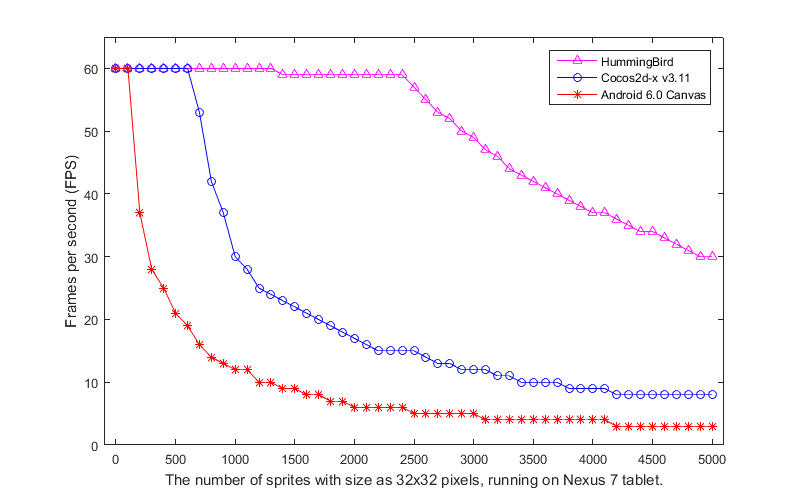
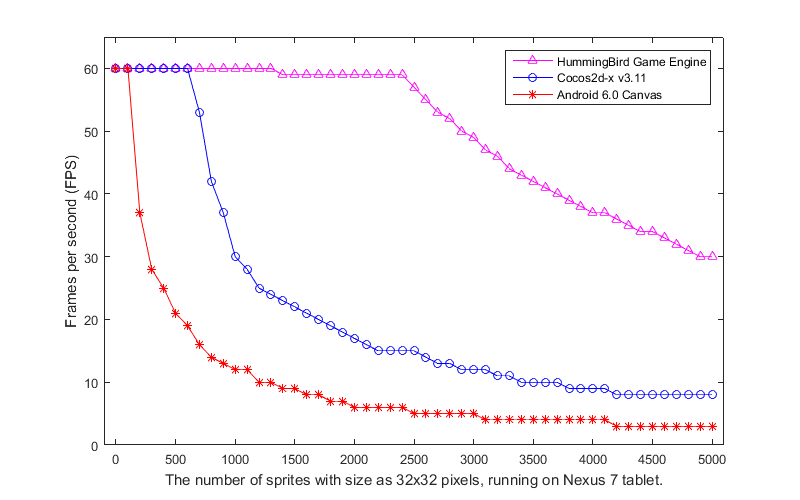
change plots

Changed region(s): [[0.625, 0.09, 0.875, 0.21]]

diff --git a/experiment/plotexp.m b/experiment/plotexp.m
@@ -25,4 +25,4 @@ cocos2dx=[60, 60, 60, 60, 60, 60, 60, 53, 42, 37, 30, ...,  %0~1000
  xlim([-100, 5100]);
  xlabel('The number of sprites with size as 32x32 pixels, running on Nexus 7 tablet.');
  ylabel('Frames per second (FPS)');
- legend({'HummingBird','Cocos2d-x v3.11','Android 6.0 Canvas'});
+ legend({'HummingBird Game Engine','Cocos2d-x v3.11','Android 6.0 Canvas'});
